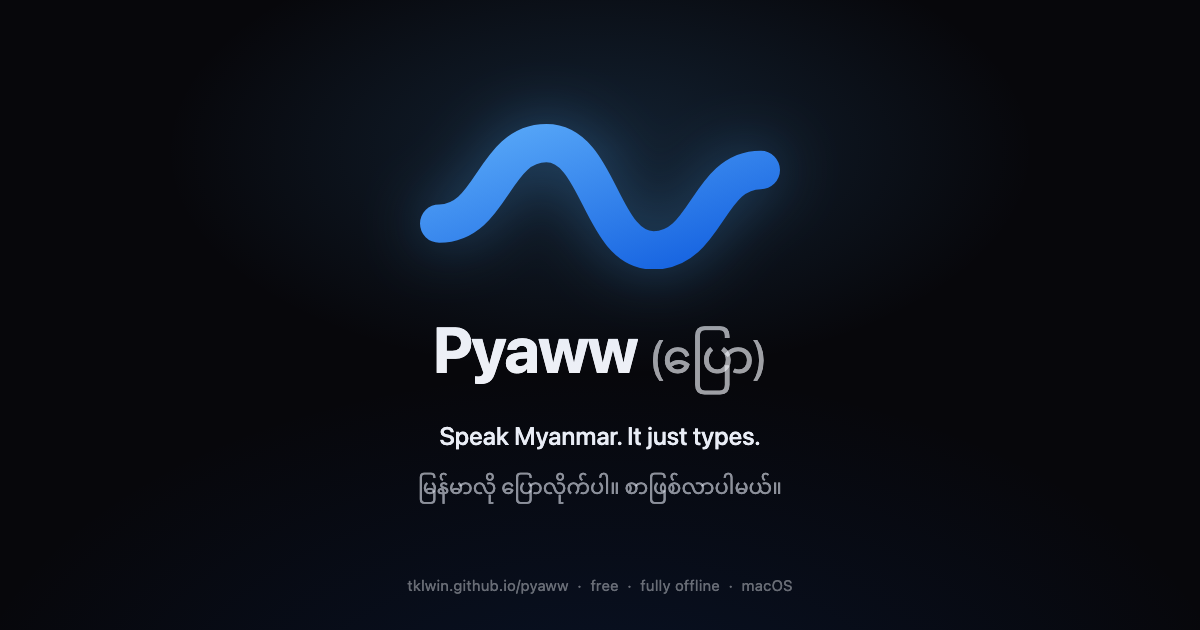
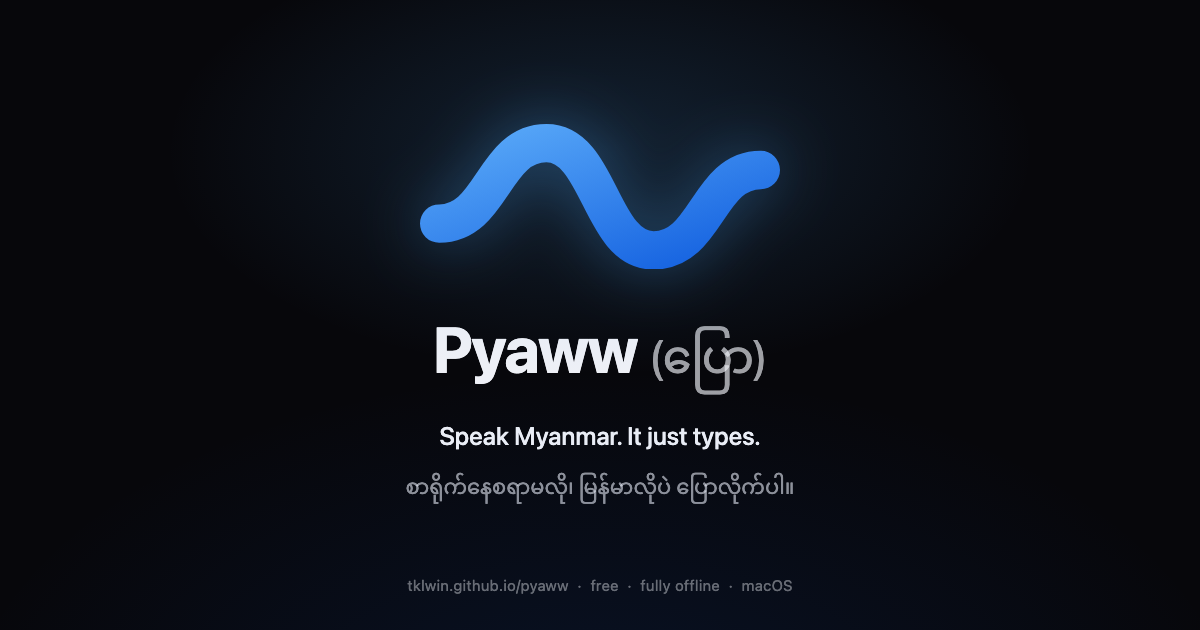
docs: record the launch and site upkeep; refresh the share card tagline

Changed region(s): [[0.3392, 0.754, 0.6783, 0.8143]]

diff --git a/docs/og-card.html b/docs/og-card.html
@@ -1,0 +1,47 @@
+<!--
+  Source for site/assets/og.png (1200 × 630 share card).
+  This file is not published: GitHub Pages serves only site/.
+  The card is self-contained (inline SVG wave, system fonts), so it
+  renders straight from the repo — see docs/website.md for the recipe.
+  Keep the Myanmar line identical to the hero tagline in site/index.html.
+-->
+<!doctype html>
+<html lang="en">
+<head>
+<meta charset="utf-8">
+<style>
+  html, body { margin:0; padding:0; width:1200px; height:630px; overflow:hidden; background:#07070b; }
+  body { font:16px/1.5 -apple-system, BlinkMacSystemFont, "Segoe UI", Roboto, "Noto Sans Myanmar", "Myanmar Sangam MN", sans-serif; color:#eef0f6; }
+  .card { position:relative; width:1200px; height:630px; display:flex; flex-direction:column; align-items:center; justify-content:center; gap:6px; }
+  .glow { position:absolute; inset:0;
+    background:
+      radial-gradient(620px 320px at 50% 24%, rgba(77,166,244,.17), transparent 70%),
+      radial-gradient(900px 520px at 50% 118%, rgba(20,97,224,.13), transparent 72%);
+  }
+  .wave { width:360px; margin-bottom:26px; filter:drop-shadow(0 0 30px rgba(77,166,244,.35)); }
+  h1 { margin:0; font-size:64px; font-weight:700; letter-spacing:-.02em; }
+  h1 .mm { font-weight:400; color:rgba(238,240,246,.66); font-size:.72em; }
+  .tag { margin:14px 0 0; font-size:25px; font-weight:500; }
+  .tag-mm { margin:6px 0 0; font-size:21px; color:rgba(238,240,246,.6); line-height:1.9; }
+  .foot { position:absolute; bottom:34px; width:100%; text-align:center; font-size:15px; color:rgba(238,240,246,.42); letter-spacing:.02em; }
+</style>
+</head>
+<body>
+  <div class="card">
+    <div class="glow"></div>
+    <svg class="wave" viewBox="118 352.6667 788 318.6667" aria-hidden="true">
+      <defs>
+        <linearGradient id="wg" x1="0" y1="0" x2="1" y2="1">
+          <stop offset="0" stop-color="#58A8F8"/>
+          <stop offset="1" stop-color="#1461E0"/>
+        </linearGradient>
+      </defs>
+      <path d="M160 570.6667 C277.3333 570.6667 277.3333 394.6667 394.6667 394.6667 C512 394.6667 512 629.3333 629.3333 629.3333 C746.6667 629.3333 746.6667 453.3333 864 453.3333" fill="none" stroke="url(#wg)" stroke-width="84" stroke-linecap="round" stroke-linejoin="round"/>
+    </svg>
+    <h1>Pyaww <span class="mm">(ပြော)</span></h1>
+    <p class="tag">Speak Myanmar. It just types.</p>
+    <p class="tag-mm">စာရိုက်နေစရာမလို၊ မြန်မာလိုပဲ ပြောလိုက်ပါ။</p>
+    <div class="foot">tklwin.github.io/pyaww&nbsp;&nbsp;·&nbsp;&nbsp;free&nbsp;&nbsp;·&nbsp;&nbsp;fully offline&nbsp;&nbsp;·&nbsp;&nbsp;macOS</div>
+  </div>
+</body>
+</html>

diff --git a/docs/website.md b/docs/website.md
@@ -1,0 +1,131 @@
+# The Pyaww website
+
+Live: <https://tklwin.github.io/pyaww/>
+Source: [`site/`](../site/) · Deploy: [`.github/workflows/pages.yml`](../.github/workflows/pages.yml)
+
+The landing page is hand-written static HTML/CSS/JS: no build step, no
+dependencies, no external requests (system fonts, local assets only). GitHub
+Pages publishes the `site/` folder directly; the workflow runs only when
+`site/**` (or itself) changes, so app releases never redeploy the page.
+
+## Layout
+
+- `site/index.html` — all page content, including both languages
+- `site/style.css` — every style on the page
+- `site/pyaww.js` — language toggle + hero wave draw-in
+- `site/assets/appicon.png`, `appicon-1024.png`, `apple-touch-icon.png` —
+  icon exports from `Design/Icon Exports/`
+- `site/assets/panel.png` — a real capture of the app's panel
+- `site/assets/wave.svg` — favicon (the brand wave)
+- `site/assets/og.png` — 1200 × 630 social card (generated; see below)
+- `docs/og-card.html` — social-card source, not published
+
+## Deploy
+
+Push to `main` touching `site/**` → workflow **Deploy landing page to GitHub
+Pages** (~20 s – 1 min). Verify that what is served is what is committed:
+
+```sh
+curl -s https://tklwin.github.io/pyaww/ | diff -q site/index.html - && echo identical
+curl -s https://tklwin.github.io/pyaww/style.css | diff -q site/style.css - && echo identical
+curl -s -o /dev/null -w '%{http_code}\n' https://tklwin.github.io/pyaww/assets/og.png
+```
+
+History: the page was first published from the personal site
+(`tklwin.github.io/static/pyaww/`) and moved here on 2026-10-18 at the same
+URL, so links kept working. The old copy was removed; do not re-add it there.
+
+## Two languages
+
+Every user-visible string is a pair of spans:
+
+```html
+<span class="en">English</span><span class="my">မြန်မာ</span>
+```
+
+`body.lang-en` / `body.lang-my` show one at a time. `pyaww.js` restores the
+choice from `localStorage["pyaww-lang"]`, otherwise follows the browser
+language (`my…` → Myanmar, else English). The toggle is
+`.langswitch button[data-lang]`, with `aria-pressed` kept in sync.
+
+Keep the two languages in step: never ship an `.en` string without its `.my`
+pair, or the reverse.
+
+## Copy rules (owner-owned)
+
+- **Burmese copy is owner-reviewed.** Do not change `.my` strings without the
+  owner checking them before a push.
+- Register: spoken Myanmar, short sentences ending `ပါတယ်` / `ပါ`; English
+  technical terms stay English (`Microphone`, `Accessibility`, `menu bar
+  dictation`); feature-card titles are short noun phrases in the owner's
+  `…ခြင်း` style.
+- Frozen by the owner (2026-10-18): the hero tagline
+  `စာရိုက်နေစရာမလို၊ မြန်မာလိုပဲ ပြောလိုက်ပါ။` and the five feature-card
+  titles. The tagline also appears on the social card — keep them identical.
+- There is deliberately no guide/help section (owner decision): the page is a
+  landing page; the README carries the details.
+
+## The wave
+
+The geometry has one source of truth: `App/MenuBarIcon.swift` (the app icon's
+"B" path). It rises first — start `570.6667` → peak `394.6667` → valley
+`629.3333` → end `453.3333` in viewBox `118 352.6667 788 318.6667`.
+
+It appears in four places and they must match:
+
+| Where | Stroke width |
+| --- | --- |
+| Hero `.wave-path` in `site/index.html` | 84 |
+| Header brand mark in `site/index.html` | 110 |
+| `site/assets/wave.svg` (favicon) | — |
+| `docs/og-card.html` (social card) | 84 |
+
+Never mirror it horizontally: the rise/fall order is part of the mark. Step 2
+of "How it works" draws the same path in red (`#ff453a`) inside a keycap tile
+(owner request, 2026-10-18) with a soft `recpulse` glow; the animation is
+disabled under `prefers-reduced-motion`.
+
+## Assets
+
+- `panel.png` is a capture of the app itself — never use personal screen
+  content in any asset (owner rule).
+- Icon exports come from the Icon Composer workflow in `Design/`.
+- No external images, fonts, analytics, or network requests of any kind. Keep
+  it that way.
+
+## Preview locally
+
+```sh
+python3 -m http.server 8123 --directory site
+# open http://127.0.0.1:8123/
+```
+
+Use the toggle to check the Myanmar view; the choice is remembered in
+`localStorage`. A fresh browser profile starts in English unless its language
+is Myanmar.
+
+## Social card
+
+`site/assets/og.png` is rendered from `docs/og-card.html` at 1200 × 630:
+
+```sh
+python3 -m http.server 8124 --directory .
+"/Applications/Google Chrome.app/Contents/MacOS/Google Chrome" \
+  --headless=new --disable-gpu --hide-scrollbars \
+  --window-size=1200,630 --virtual-time-budget=4000 \
+  --screenshot=site/assets/og.png \
+  http://127.0.0.1:8124/docs/og-card.html
+```
+
+Regenerate it whenever the hero tagline or branding changes. The `og:image`
+meta tag in `index.html` points at the live URL, so replacing the file is
+enough.
+
+## Checklist before pushing
+
+- Toggle both languages: every section switches, no mixed-language leftovers.
+- The wave rises first (compare against the icon export).
+- DevTools → Network shows only local requests.
+- The social card matches the hero tagline (regenerate if it changed).
+- After deploy: byte-diff `index.html` / `style.css` against the live URL and
+  check that every asset returns 200.

diff --git a/docs/decisions.md b/docs/decisions.md
@@ -546,3 +546,57 @@ become final.
 - **Footer GitHub link (owner request, 2026-10-18).** Opens
   `github.com/tklwin/pyaww` in the browser on click; the app itself still
   makes no network requests (SPEC §1 unchanged).
+
+## Marketing site (2026-10-18)
+
+- **[OWNER] Bilingual landing page, live at tklwin.github.io/pyaww/.**
+  Hand-written static HTML/CSS/JS — no dependencies, no external
+  requests, system fonts — living in `site/` in this repository and
+  published by GitHub Pages (`.github/workflows/pages.yml`, path-filtered
+  to `site/**`, so releases never redeploy it). The repository's homepage
+  field points here; `docs/website.md` carries the maintenance rules.
+- **Moved to this repo at the same URL.** First published from the
+  personal site (`tklwin.github.io/static/pyaww/`), then moved so the
+  page versions with the app: the project-site URL is exactly
+  `tklwin.github.io/pyaww/`, so nothing changed for visitors. The old
+  copy was removed only after the new one was verified live (the URL
+  never went dark) and the personal site's "apps" nav link still
+  resolves. Do not re-add `static/pyaww/` there.
+- **Myanmar copy is owner-reviewed and now frozen.** Two passes: a full
+  rewrite in a spoken register modelled on the Talk2Notion knowledge base
+  (short sentences, `ပါတယ်/ပါ` endings, English technical terms kept
+  English, honest "ဒါ ပုံမှန်ပါပဲ"-style friction notes), then the owner's
+  exact replacements — the tagline
+  "စာရိုက်နေစရာမလို၊ မြန်မာလိုပဲ ပြောလိုက်ပါ။", five feature-card titles in
+  the owner's short-noun-phrase (`…ခြင်း`) style, and the "Ready at login"
+  card body — integrated verbatim. Future `.my` changes need the owner's
+  check before pushing.
+- **No guide/help section (owner).** A guide (Quick start) was built and
+  removed before any commit — owner: "we don't need guide actually… just
+  don't add guide"; the page stays one landing page because "the app is
+  so clean and easy to setup".
+- **The red wave sits in a keycap tile like its neighbours (owner).**
+  Step 2 of "How it works" first showed a floating red dot; the owner
+  asked for a red wave "with button padding as others to match", so it
+  now shares the keycap tile, border, gradient and padding with the ⌥
+  and ↵ cards, drawn in `#ff453a` with a soft pulse (reduced-motion
+  aware).
+- **Wave geometry has one source of truth — `App/MenuBarIcon.swift`.**
+  Hero, header mark, favicon and share card all draw the icon's "B" path
+  (rises first: 570.6667 → 394.6667 → 629.3333 → 453.3333). An early page
+  wave was horizontally mirrored; every copy was corrected and compared
+  against the icon export. Never mirror it.
+- **Assets are captures of the app itself (owner rule).** `panel.png` is
+  the real panel; no personal screen content appears anywhere on the
+  page. Icon exports come from `Design/Icon Exports/`; the 1200×630 share
+  card is rendered from `docs/og-card.html` (self-contained). Its Myanmar
+  line still carried the pre-approval tagline and was updated to the
+  owner's tagline during the 2026-10-18 housekeeping pass, so card and
+  hero now match.
+- **Promo video: draft built, owner parked it.** A 19 s 1920×1080 H.264
+  draft was rendered in EffectCraft; the owner stopped the direction
+  ("just leave it video now") and no audio pass exists. Project + draft
+  are preserved at `~/Movies/pyaww-promo/`; do not resume unless asked.
+- **Dev-only `PYAWW_SHOW_PANEL` hook added then dropped.** It forced the
+  panel visible for captures; the owner said drop it, the branch was
+  reset to `origin/main`, and no release contains it.

diff --git a/docs/TODO.md b/docs/TODO.md
@@ -5,6 +5,13 @@ lists live in the phase reports, not here.
 
 ## Recently closed (recorded in docs/decisions.md)
 
+- ✅ **Marketing site + launch (2026-10-18):** bilingual landing page live
+  at <https://tklwin.github.io/pyaww/> — served from `site/` by the
+  `pages.yml` workflow, moved here from the personal site repo at the same
+  URL; owner-reviewed Burmese copy (tagline + feature titles frozen), real
+  panel capture, icon, and share card. Repo homepage field points at it.
+  Details: `docs/decisions.md` ("Marketing site"); maintenance:
+  `docs/website.md`.
 - ✅ **Gate 4 rehearsal (2026-10-17):** owner ticked all 8 steps in
   `docs/manual-test-log.md` — clean install from the README alone
   (Gatekeeper *Open Anyway*, fresh permission prompts, first dictation,
@@ -55,14 +62,23 @@ lists live in the phase reports, not here.
   Versioning confirmed: first release `v0.1.0` ("pyaww v0.1.0 (beta)").
   Gate 4 rehearsal green (log ticked); the installer window fixed and
   the field re-tinted dark ink so the full-bleed badge pops.
-  Next: the publish go-ahead (`git push origin main`, tag, release).
-  SPEC Phase 5 notarization/CI stay optional.
+  Shipped: tag + GitHub release `v0.1.0` (DMG on Releases), and the
+  landing page is live at <https://tklwin.github.io/pyaww/>. SPEC Phase 5
+  notarization/CI stay optional.
 - **Icon fill: decided (2026-10-17).** Measured truth: our icns is
   100 % full-bleed (Icon Composer's iOS export) while the reference apps
   ship classic ~80–88 % canvases; the Settings plate is the legacy
   renderer re-seating full-bleed art. **Owner: keep full-bleed** — the
   DMG background instead went dark ink (+ azure glow) so the blue badge
   pops.
+- **Next version: scope not chosen (2026-10-18).** v0.1.0 shipped and the
+  website is live; pick `v0.1.1` (fixes only) vs `v0.2.0` (features)
+  before development resumes. The site versions independently — only
+  pushes touching `site/**` redeploy it.
+- **Promo video: parked (2026-10-18).** The 19 s draft did not pass the
+  owner's look review ("just leave it video now"); no audio pass was made.
+  Project + draft preserved at `~/Movies/pyaww-promo/` — resume only on
+  request; do not ship the draft.
 
 ## Phase 4
 
@@ -76,8 +92,7 @@ lists live in the phase reports, not here.
 - **Gate 4 close-out (2026-10-17):** `README.md`, `CHANGELOG.md` and the
   DMG kit (`scripts/make-dmg.sh`, `scripts/make-dmg-background.swift`,
   `scripts/patch-ds-store.py`) are in. Rehearsal green (log ticked) and
-  the installer window fixed; remaining: the publish go-ahead
-  (`git push` + `gh release create v0.1.0`).
+  the installer window fixed; shipped as `v0.1.0` (tag + GitHub release).
 
 ## Agent / engineering
 

diff --git a/README.md b/README.md
@@ -112,6 +112,13 @@ tccutil reset Microphone com.tklwin.pyaww
 tccutil reset Accessibility com.tklwin.pyaww
 ```
 
+## Website
+
+The bilingual landing page — <https://tklwin.github.io/pyaww/> — is
+hand-written and lives in [`site/`](site/), published by GitHub Pages
+whenever that folder changes. Maintainer notes (copy rules, the wave
+geometry, previewing and publishing): [`docs/website.md`](docs/website.md).
+
 ## License and credits
 
 Pyaww's own code is [MIT licensed](LICENSE), © 2026 Thein Kyaw Lwin.

diff --git a/CHANGELOG.md b/CHANGELOG.md
@@ -6,6 +6,12 @@ project uses [Semantic Versioning](https://semver.org/).
 
 ## [Unreleased]
 
+### Added
+
+- Project website: a bilingual (English / မြန်မာ) landing page at
+  <https://tklwin.github.io/pyaww/>, written by hand and published from
+  `site/` by GitHub Pages; the social card carries the same tagline
+
 ## [0.1.0] - 2026-10-18
 
 First public beta: hold a modifier key, speak Myanmar, release — the text
